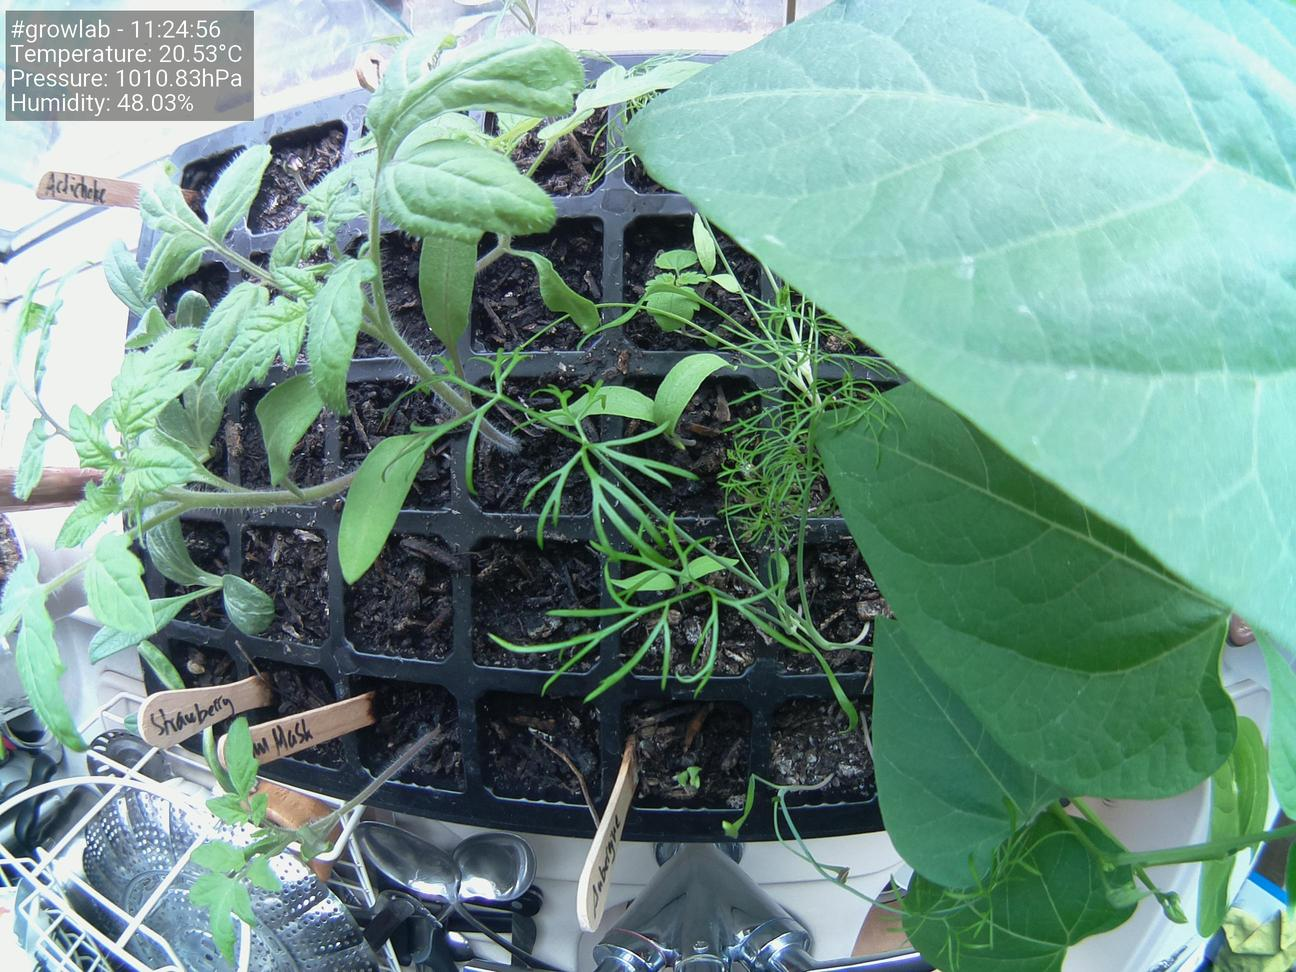
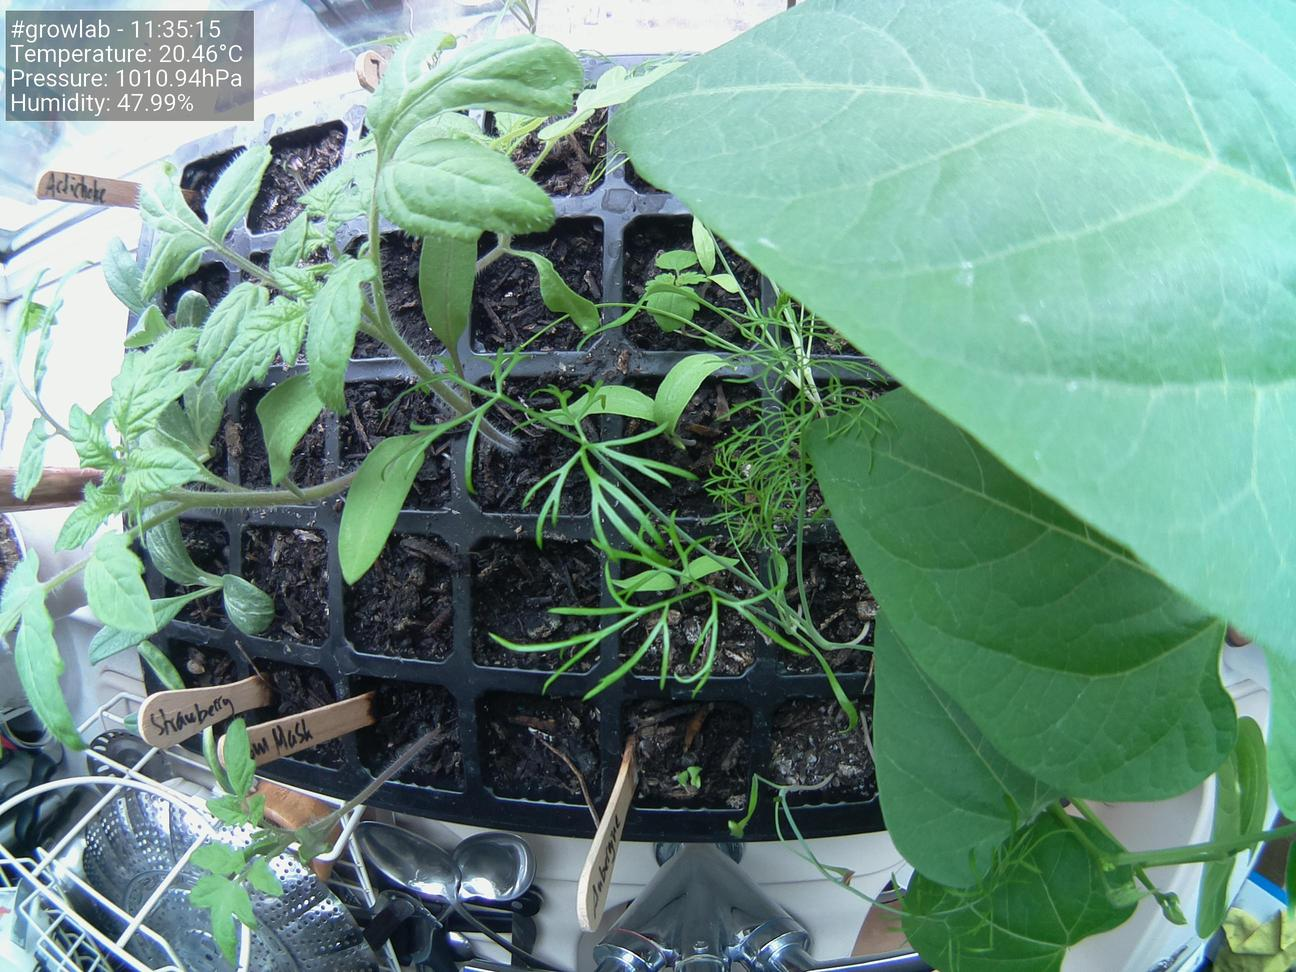
Update images at Thu 29 Apr 11:35:27 BST 2021

diff --git a/docs/index.html b/docs/index.html
@@ -38,19 +38,19 @@
                     <tbody>
                         <tr>
                             <td>Time</td>
-                            <td>11:24:56</td>
+                            <td>11:35:15</td>
                         </tr>
                         <tr>
                             <td>Temperature</td>
-                            <td>20.53°C</td>
+                            <td>20.46°C</td>
                         </tr>
                         <tr>
                             <td>Humidity</td>
-                            <td>48.03%</td>
+                            <td>47.99%</td>
                         </tr>
                         <tr>
                             <td>Pressure</td>
-                            <td>1010.83hPa</td>
+                            <td>1010.94hPa</td>
                         </tr>
                     </tbody>
                 </table>
@@ -58,7 +58,7 @@
 
                 <h5>Latest image</h5>
 		<div style="width: 85%;">
-	                <img class="figure-img img-fluid rounded" src="./preview.jpg?uid=1619691907.3200316">
+	                <img class="figure-img img-fluid rounded" src="./preview.jpg?uid=1619692526.7734306">
 		</div>
             </div>
         </div>
